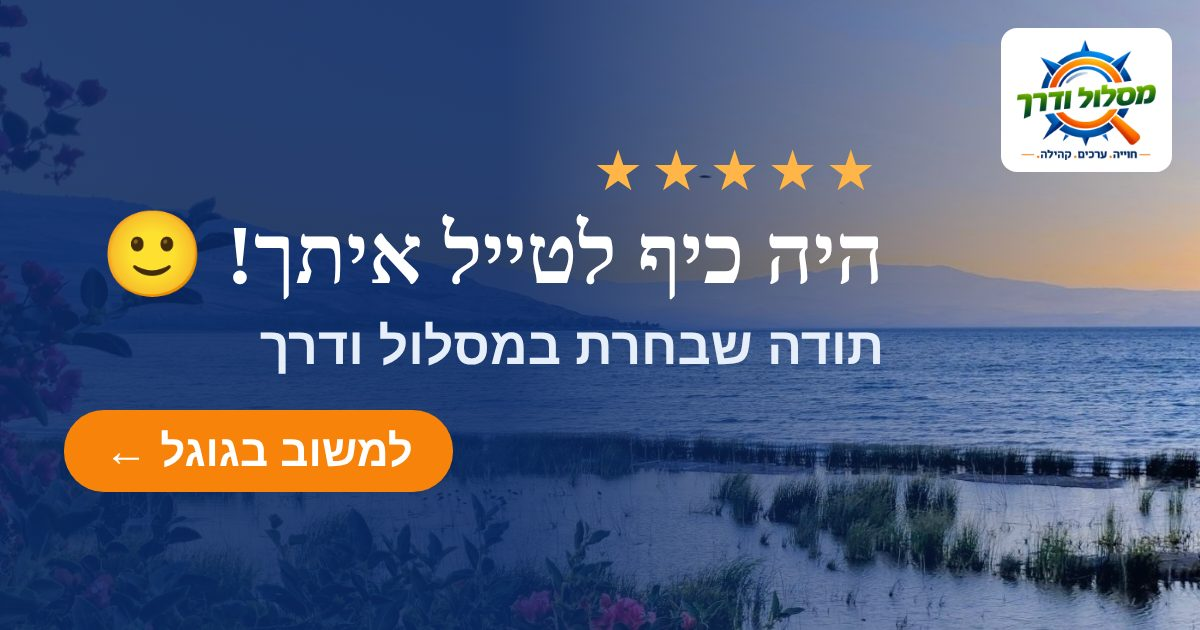
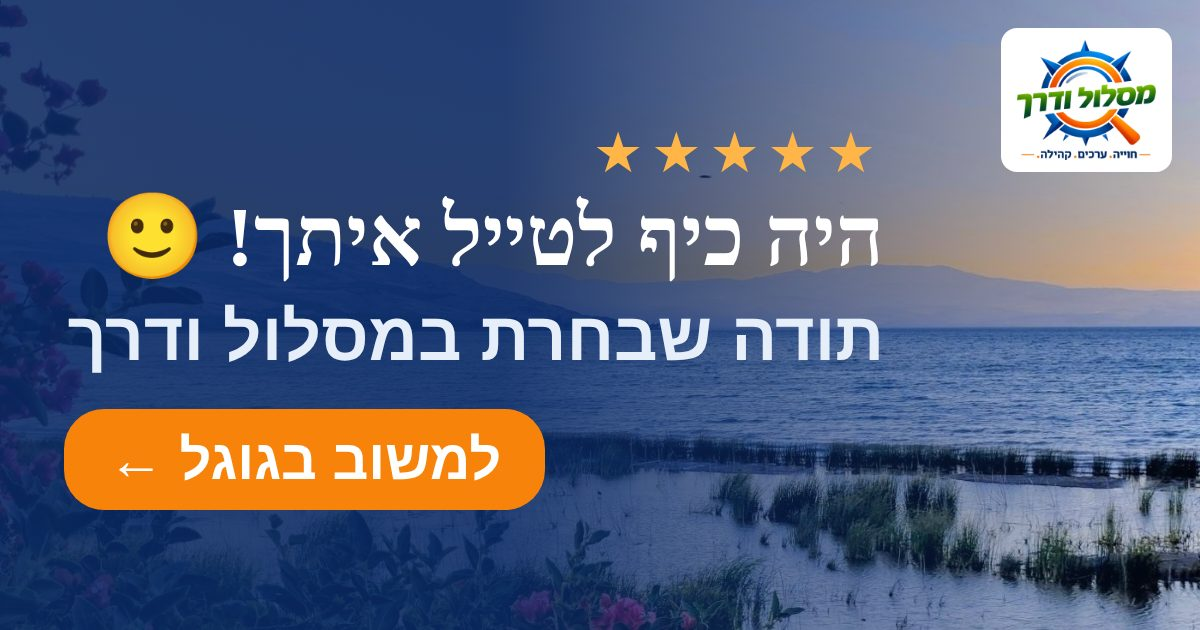
Review cards: larger subtitle and button
Claude-Session: https://claude.ai/code/session_019sFTT2aJY1BdiV1sD3hdum

Changed region(s): [[0.0617, 0.3016, 0.74, 0.6032], [0.0308, 0.6333, 0.4625, 0.8143], [0.4933, 0.2111, 0.74, 0.3016]]

diff --git a/review.html b/review.html
@@ -11,7 +11,7 @@
 <meta property="og:title" content="היי, כאן אשד 👋">
 <meta property="og:description" content="אם העליתי לך חיוך, אשמח לדקה מזמנך למשוב בגוגל. זה עוזר לי מאוד 🙏">
 <meta property="og:url" content="https://maslul-derech.co.il/review">
-<meta property="og:image" content="https://maslul-derech.co.il/share-review.jpg?v=2">
+<meta property="og:image" content="https://maslul-derech.co.il/share-review.jpg?v=3">
 <meta property="og:image:width" content="1200">
 <meta property="og:image:height" content="630">
 <meta name="twitter:card" content="summary_large_image">

diff --git a/review-en.html b/review-en.html
@@ -11,7 +11,7 @@
 <meta property="og:title" content="Hi, it's Eshed 👋">
 <meta property="og:description" content="If I made you smile, I'd be grateful if you took a minute to leave a Google review. It really helps 🙏">
 <meta property="og:url" content="https://maslul-derech.co.il/review-en">
-<meta property="og:image" content="https://maslul-derech.co.il/share-review-en.jpg?v=2">
+<meta property="og:image" content="https://maslul-derech.co.il/share-review-en.jpg?v=3">
 <meta property="og:image:width" content="1200">
 <meta property="og:image:height" content="630">
 <meta name="twitter:card" content="summary_large_image">
